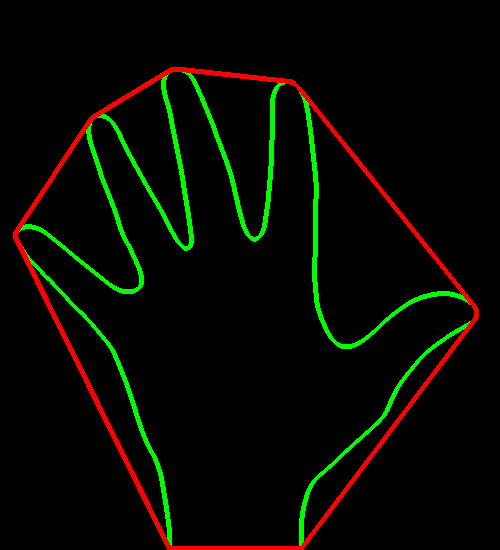
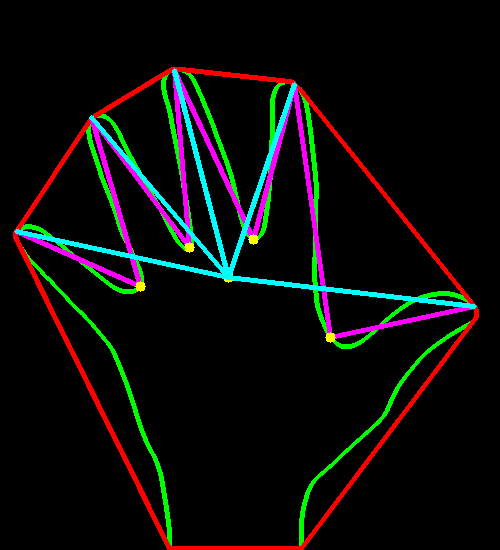
New models

Changed region(s): [[0.03, 0.1236, 0.96, 0.6182]]

diff --git a/FilipsModel.py b/FilipsModel.py
@@ -1,0 +1,103 @@
+# Python Libraries
+import cv2          # OpenCV
+
+# Our Libraries
+import Triangle as th
+
+class FilipsModel:
+    center = None
+    firstFinger = None
+    firstDefect = None
+    secondFinger = None
+    secondDefect = None
+    middleFinger = None
+    defectMiddleFinger = None
+    fourthFinger = None
+    lastDefect = None
+    lastFinger = None
+    defects = 0
+
+    def __init__(self,center,triangles):
+        self.center = center
+        self.defects = len(triangles)
+
+        if self.defects == 0:
+            pass
+        elif self.defects == 1:
+            self.firstFinger = triangles[0].fingerA
+            self.firstDefect = triangles[0].defect
+            self.lastDefect = triangles[0].fingerB
+        elif self.defects == 2:
+            self.firstFinger = triangles[0].fingerA
+            self.firstDefect = triangles[0].defect
+            self.secondFinger = th.averagePoint(triangles[0].fingerB,triangles[1].fingerA)
+            self.lastDefect = triangles[1].defect
+            self.lastFinger = triangles[1].fingerB
+        elif self.defects == 3:
+            self.firstFinger = triangles[0].fingerA
+            self.firstDefect = triangles[0].defect
+            self.secondFinger = th.averagePoint(triangles[0].fingerB, triangles[1].fingerA)
+            self.secondDefect = triangles[1].defect
+            self.middleFinger = th.averagePoint(triangles[1].fingerB, triangles[2].fingerA)
+            self.lastDefect = triangles[2].defect
+            self.lastFinger = triangles[2].fingerB
+        elif self.defects == 4:
+            self.firstFinger = triangles[0].fingerA
+            self.firstDefect = triangles[0].defect
+            self.secondFinger = th.averagePoint(triangles[0].fingerB, triangles[1].fingerA)
+            self.secondDefect = triangles[1].defect
+            self.middleFinger = th.averagePoint(triangles[1].fingerB, triangles[2].fingerA)
+            self.defectMiddleFinger = triangles[2].defect
+            self.fourthFinger = th.averagePoint(triangles[2].fingerB, triangles[3].fingerA)
+            self.lastDefect = triangles[3].defect
+            self.lastFinger = triangles[3].fingerB
+
+    def drawLines(self,image,color,lineThickness):
+        if self.defects == 0:
+            pass
+        elif self.defects == 1: # 2 Fingers
+            cv2.line(image, th.listToTuple(self.firstDefect), th.listToTuple(self.firstFinger), color, lineThickness)
+            cv2.line(image, th.listToTuple(self.firstDefect), th.listToTuple(self.lastFinger), color, lineThickness)
+        elif self.defects == 2: # 3 Fingers
+            cv2.line(image, th.listToTuple(self.firstDefect), th.listToTuple(self.firstFinger), color, lineThickness)
+            cv2.line(image, th.listToTuple(self.firstDefect), th.listToTuple(self.secondFinger), color, lineThickness)
+            cv2.line(image, th.listToTuple(self.lastDefect), th.listToTuple(self.secondFinger), color, lineThickness)
+            cv2.line(image, th.listToTuple(self.lastDefect), th.listToTuple(self.lastFinger), color, lineThickness)
+        elif self.defects == 3: # 4 Fingers
+            cv2.line(image, th.listToTuple(self.firstDefect), th.listToTuple(self.firstFinger), color, lineThickness)
+            cv2.line(image, th.listToTuple(self.firstDefect), th.listToTuple(self.secondFinger), color, lineThickness)
+            cv2.line(image, th.listToTuple(self.secondDefect), th.listToTuple(self.secondFinger), color, lineThickness)
+            cv2.line(image, th.listToTuple(self.secondDefect), th.listToTuple(self.middleFinger), color, lineThickness)
+            cv2.line(image, th.listToTuple(self.lastDefect), th.listToTuple(self.middleFinger), color, lineThickness)
+            cv2.line(image, th.listToTuple(self.lastDefect), th.listToTuple(self.lastFinger), color, lineThickness)
+        elif self.defects == 4: # 5 Fingers
+            cv2.line(image, th.listToTuple(self.firstDefect), th.listToTuple(self.firstFinger), color, lineThickness)
+            cv2.line(image, th.listToTuple(self.firstDefect), th.listToTuple(self.secondFinger), color, lineThickness)
+            cv2.line(image, th.listToTuple(self.secondDefect), th.listToTuple(self.secondFinger), color, lineThickness)
+            cv2.line(image, th.listToTuple(self.secondDefect), th.listToTuple(self.middleFinger), color, lineThickness)
+            cv2.line(image, th.listToTuple(self.defectMiddleFinger), th.listToTuple(self.middleFinger), color, lineThickness)
+            cv2.line(image, th.listToTuple(self.defectMiddleFinger), th.listToTuple(self.fourthFinger), color,
+                     lineThickness)
+            cv2.line(image, th.listToTuple(self.lastDefect), th.listToTuple(self.fourthFinger), color, lineThickness)
+            cv2.line(image, th.listToTuple(self.lastDefect), th.listToTuple(self.lastFinger), color, lineThickness)
+
+    def drawDefects(self,image,color,internRadius,externRadius):
+        if self.defects == 0:
+            cv2.circle(image, th.listToTuple(self.center), internRadius, color, externRadius)
+        elif self.defects == 1: # 2 Fingers
+            cv2.circle(image, th.listToTuple(self.firstDefect), internRadius, color, externRadius)
+        elif self.defects == 2: # 3 Fingers
+            cv2.circle(image, th.listToTuple(self.center), internRadius, color, externRadius)
+            cv2.circle(image, th.listToTuple(self.firstDefect), internRadius, color, externRadius)
+            cv2.circle(image, th.listToTuple(self.lastDefect), internRadius, color, externRadius)
+        elif self.defects == 3: # 4 Fingers
+            cv2.circle(image, th.listToTuple(self.center), internRadius, color, externRadius)
+            cv2.circle(image, th.listToTuple(self.firstDefect), internRadius, color, externRadius)
+            cv2.circle(image, th.listToTuple(self.secondDefect), internRadius, color, externRadius)
+            cv2.circle(image, th.listToTuple(self.lastDefect), internRadius, color, externRadius)
+        elif self.defects == 4: # 5 Fingers
+            cv2.circle(image, th.listToTuple(self.center), internRadius, color, externRadius)
+            cv2.circle(image, th.listToTuple(self.firstDefect), internRadius, color, externRadius)
+            cv2.circle(image, th.listToTuple(self.secondDefect), internRadius, color, externRadius)
+            cv2.circle(image, th.listToTuple(self.defectMiddleFinger), internRadius, color, externRadius)
+            cv2.circle(image, th.listToTuple(self.lastDefect), internRadius, color, externRadius)

diff --git a/TonyModel.py b/TonyModel.py
@@ -1,0 +1,61 @@
+# Python Libraries
+import cv2          # OpenCV
+
+# Our Libraries
+import Triangle as th
+
+class TonyModel:
+    center = None
+    firstFinger = None
+    secondFinger = None
+    middleFinger = None
+    fourthFinger = None
+    lastFinger = None
+    defects = 0
+
+    def __init__(self,center,triangles):
+        self.center = center
+        self.defects = len(triangles)
+
+        if self.defects == 0:
+            pass
+        elif self.defects == 1:
+            self.firstFinger = triangles[0].fingerA
+            self.lastDefect = triangles[0].fingerB
+        elif self.defects == 2:
+            self.firstFinger = triangles[0].fingerA
+            self.secondFinger = th.averagePoint(triangles[0].fingerB,triangles[1].fingerA)
+            self.lastFinger = triangles[1].fingerB
+        elif self.defects == 3:
+            self.firstFinger = triangles[0].fingerA
+            self.secondFinger = th.averagePoint(triangles[0].fingerB, triangles[1].fingerA)
+            self.middleFinger = th.averagePoint(triangles[1].fingerB, triangles[2].fingerA)
+            self.lastFinger = triangles[2].fingerB
+        elif self.defects == 4:
+            self.firstFinger = triangles[0].fingerA
+            self.secondFinger = th.averagePoint(triangles[0].fingerB, triangles[1].fingerA)
+            self.middleFinger = th.averagePoint(triangles[1].fingerB, triangles[2].fingerA)
+            self.fourthFinger = th.averagePoint(triangles[2].fingerB, triangles[3].fingerA)
+            self.lastFinger = triangles[3].fingerB
+
+    def drawLines(self,image,color,lineThickness):
+        if self.defects == 0:
+            pass
+        elif self.defects == 1: # 2 Fingers
+            cv2.line(image, th.listToTuple(self.center), th.listToTuple(self.firstFinger), color, lineThickness)
+            cv2.line(image, th.listToTuple(self.center), th.listToTuple(self.lastFinger), color, lineThickness)
+        elif self.defects == 2: # 3 Fingers
+            cv2.line(image, th.listToTuple(self.center), th.listToTuple(self.firstFinger), color, lineThickness)
+            cv2.line(image, th.listToTuple(self.center), th.listToTuple(self.secondFinger), color, lineThickness)
+            cv2.line(image, th.listToTuple(self.center), th.listToTuple(self.lastFinger), color, lineThickness)
+        elif self.defects == 3: # 4 Fingers
+            cv2.line(image, th.listToTuple(self.center), th.listToTuple(self.firstFinger), color, lineThickness)
+            cv2.line(image, th.listToTuple(self.center), th.listToTuple(self.secondFinger), color, lineThickness)
+            cv2.line(image, th.listToTuple(self.center), th.listToTuple(self.middleFinger), color, lineThickness)
+            cv2.line(image, th.listToTuple(self.center), th.listToTuple(self.lastFinger), color, lineThickness)
+        elif self.defects == 4: # 5 Fingers
+            cv2.line(image, th.listToTuple(self.center), th.listToTuple(self.firstFinger), color, lineThickness)
+            cv2.line(image, th.listToTuple(self.center), th.listToTuple(self.secondFinger), color, lineThickness)
+            cv2.line(image, th.listToTuple(self.center), th.listToTuple(self.middleFinger), color, lineThickness)
+            cv2.line(image, th.listToTuple(self.center), th.listToTuple(self.fourthFinger), color, lineThickness)
+            cv2.line(image, th.listToTuple(self.center), th.listToTuple(self.lastFinger), color, lineThickness)

diff --git a/ImageProcessor.py b/ImageProcessor.py
@@ -5,6 +5,9 @@ import math         # Math operations
 
 # Our Libraries
 import colors_helpers as ch  # Colors helpers
+import Triangle as th
+import FilipsModel as hfm
+import TonyModel as htm
 
 # Calculates the distance between points
 def distance(pointA, pointB):
@@ -89,6 +92,7 @@ def analyze(ip):
     hullWithoutPoints = cv2.convexHull(cnt, returnPoints=False)
     defects = cv2.convexityDefects(cnt, hullWithoutPoints)
     count_defects = 0
+    triangles = []
     for i in range(defects.shape[0]):
         s, e, f, d = defects[i, 0]
         start = tuple(cnt[s][0])
@@ -100,8 +104,18 @@ def analyze(ip):
         angle = math.acos((b ** 2 + c ** 2 - a ** 2) / (2 * b * c)) * 60
         if angle <= 90:
             count_defects += 1
-            cv2.circle(crop_img, far, ip.defectInternRadius, ip.yellow, ip.defectExternRadius)
+            triangle = th.Triangle(start,end,far)
+            triangles.append(triangle)
         cv2.line(crop_img, start, end, ip.red, ip.lineThickness)
+
+    # Calculate center of hand
+    centerOfHand = th.listToTuple(th.obtainCenterOfHand(triangles))
+
+    handModel = hfm.FilipsModel(centerOfHand,triangles)
+    handModel.drawLines(drawing, ip.magenta, ip.lineThickness)
+    handModel.drawDefects(drawing, ip.yellow, ip.defectInternRadius, ip.defectExternRadius)
+    handModel2 = htm.TonyModel(centerOfHand, triangles)
+    handModel2.drawLines(drawing, ip.cyan, ip.lineThickness)
 
     # cv2.imshow('Contours', all_img)
     cv2.imwrite("drawing.png", drawing)

diff --git a/Triangle.py b/Triangle.py
@@ -1,0 +1,29 @@
+def tupleToList(point):
+    return [point[0], point[1]]
+
+def listToTuple(point):
+    return (point[0], point[1])
+
+def averagePoint(pointA,pointB):
+    x = (pointA[0] + pointB[0]) /2
+    y = (pointA[1] + pointB[1]) / 2
+    return [x,y]
+
+def obtainCenterOfHand(triangles):
+    center = [0, 0]
+    for triangle in triangles:
+        center[0] += triangle.defect[0]
+        center[1] += triangle.defect[1]
+    center[0] /= len(triangles)
+    center[1] /= len(triangles)
+    return center
+
+class Triangle:
+    fingerA = []
+    fingerB = []
+    defect = []
+
+    def __init__(self, fingerA, fingerB, defect):
+        self.fingerA = tupleToList(fingerA)
+        self.fingerB = tupleToList(fingerB)
+        self.defect = tupleToList(defect)
